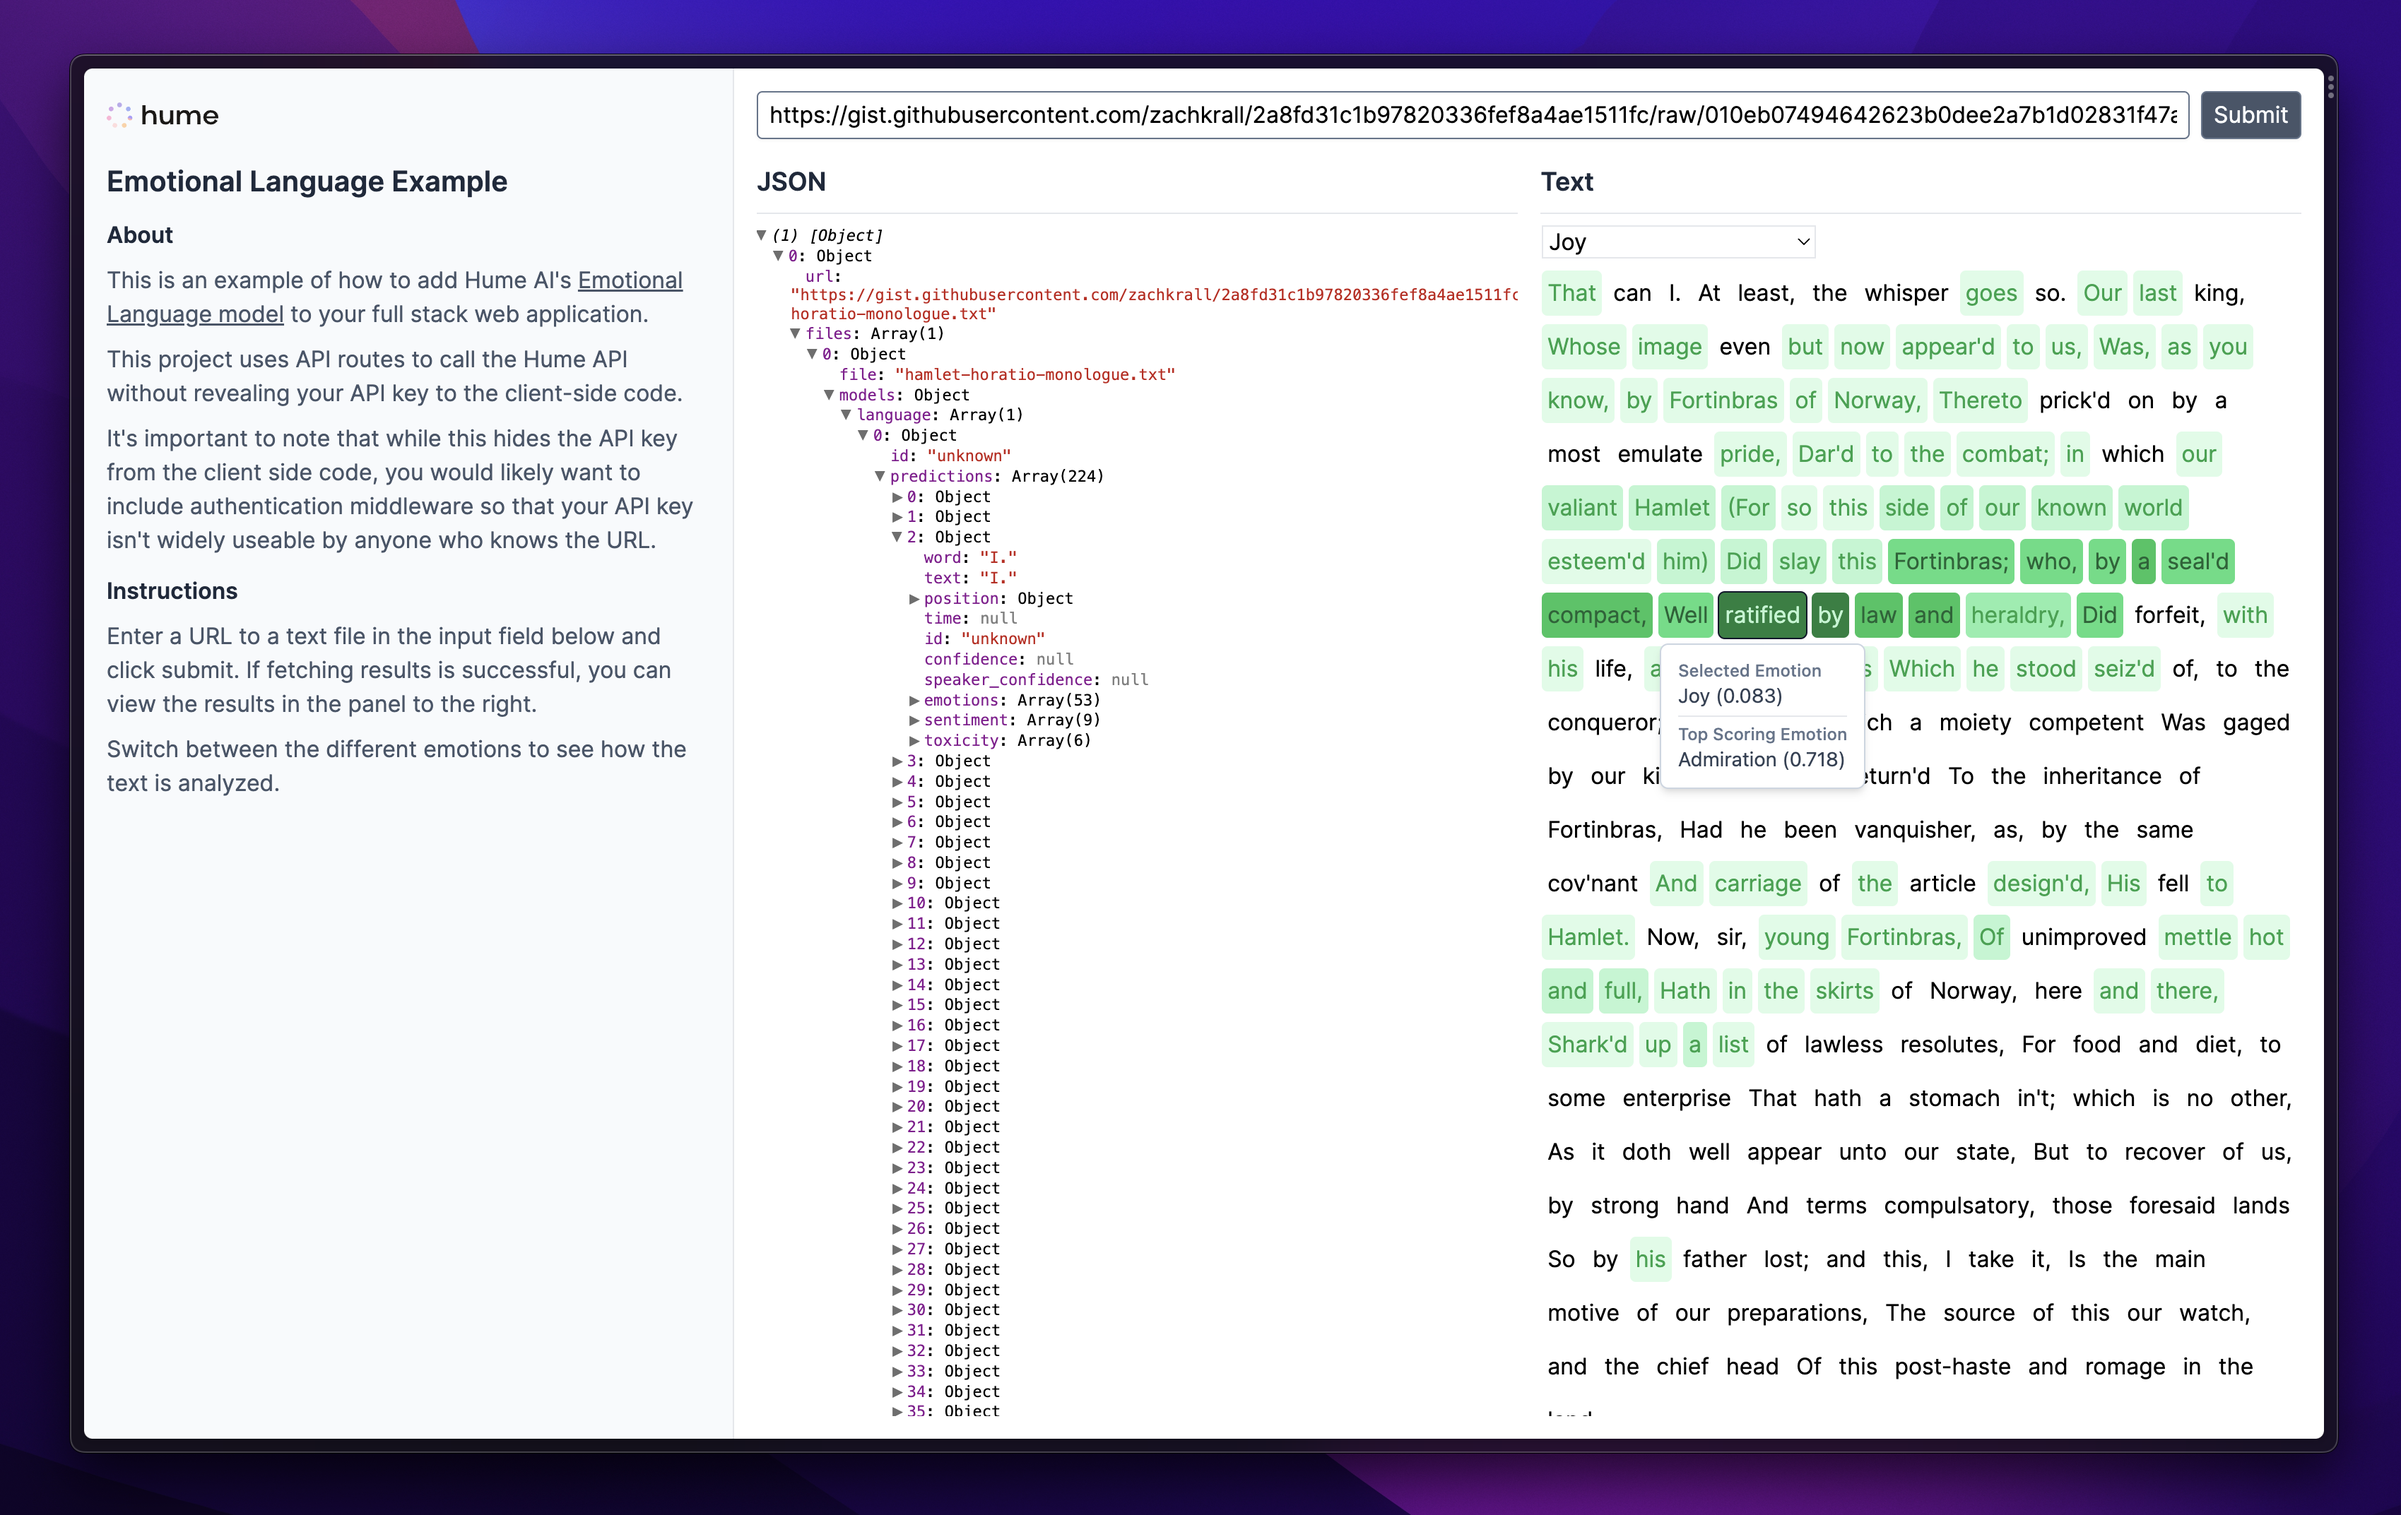
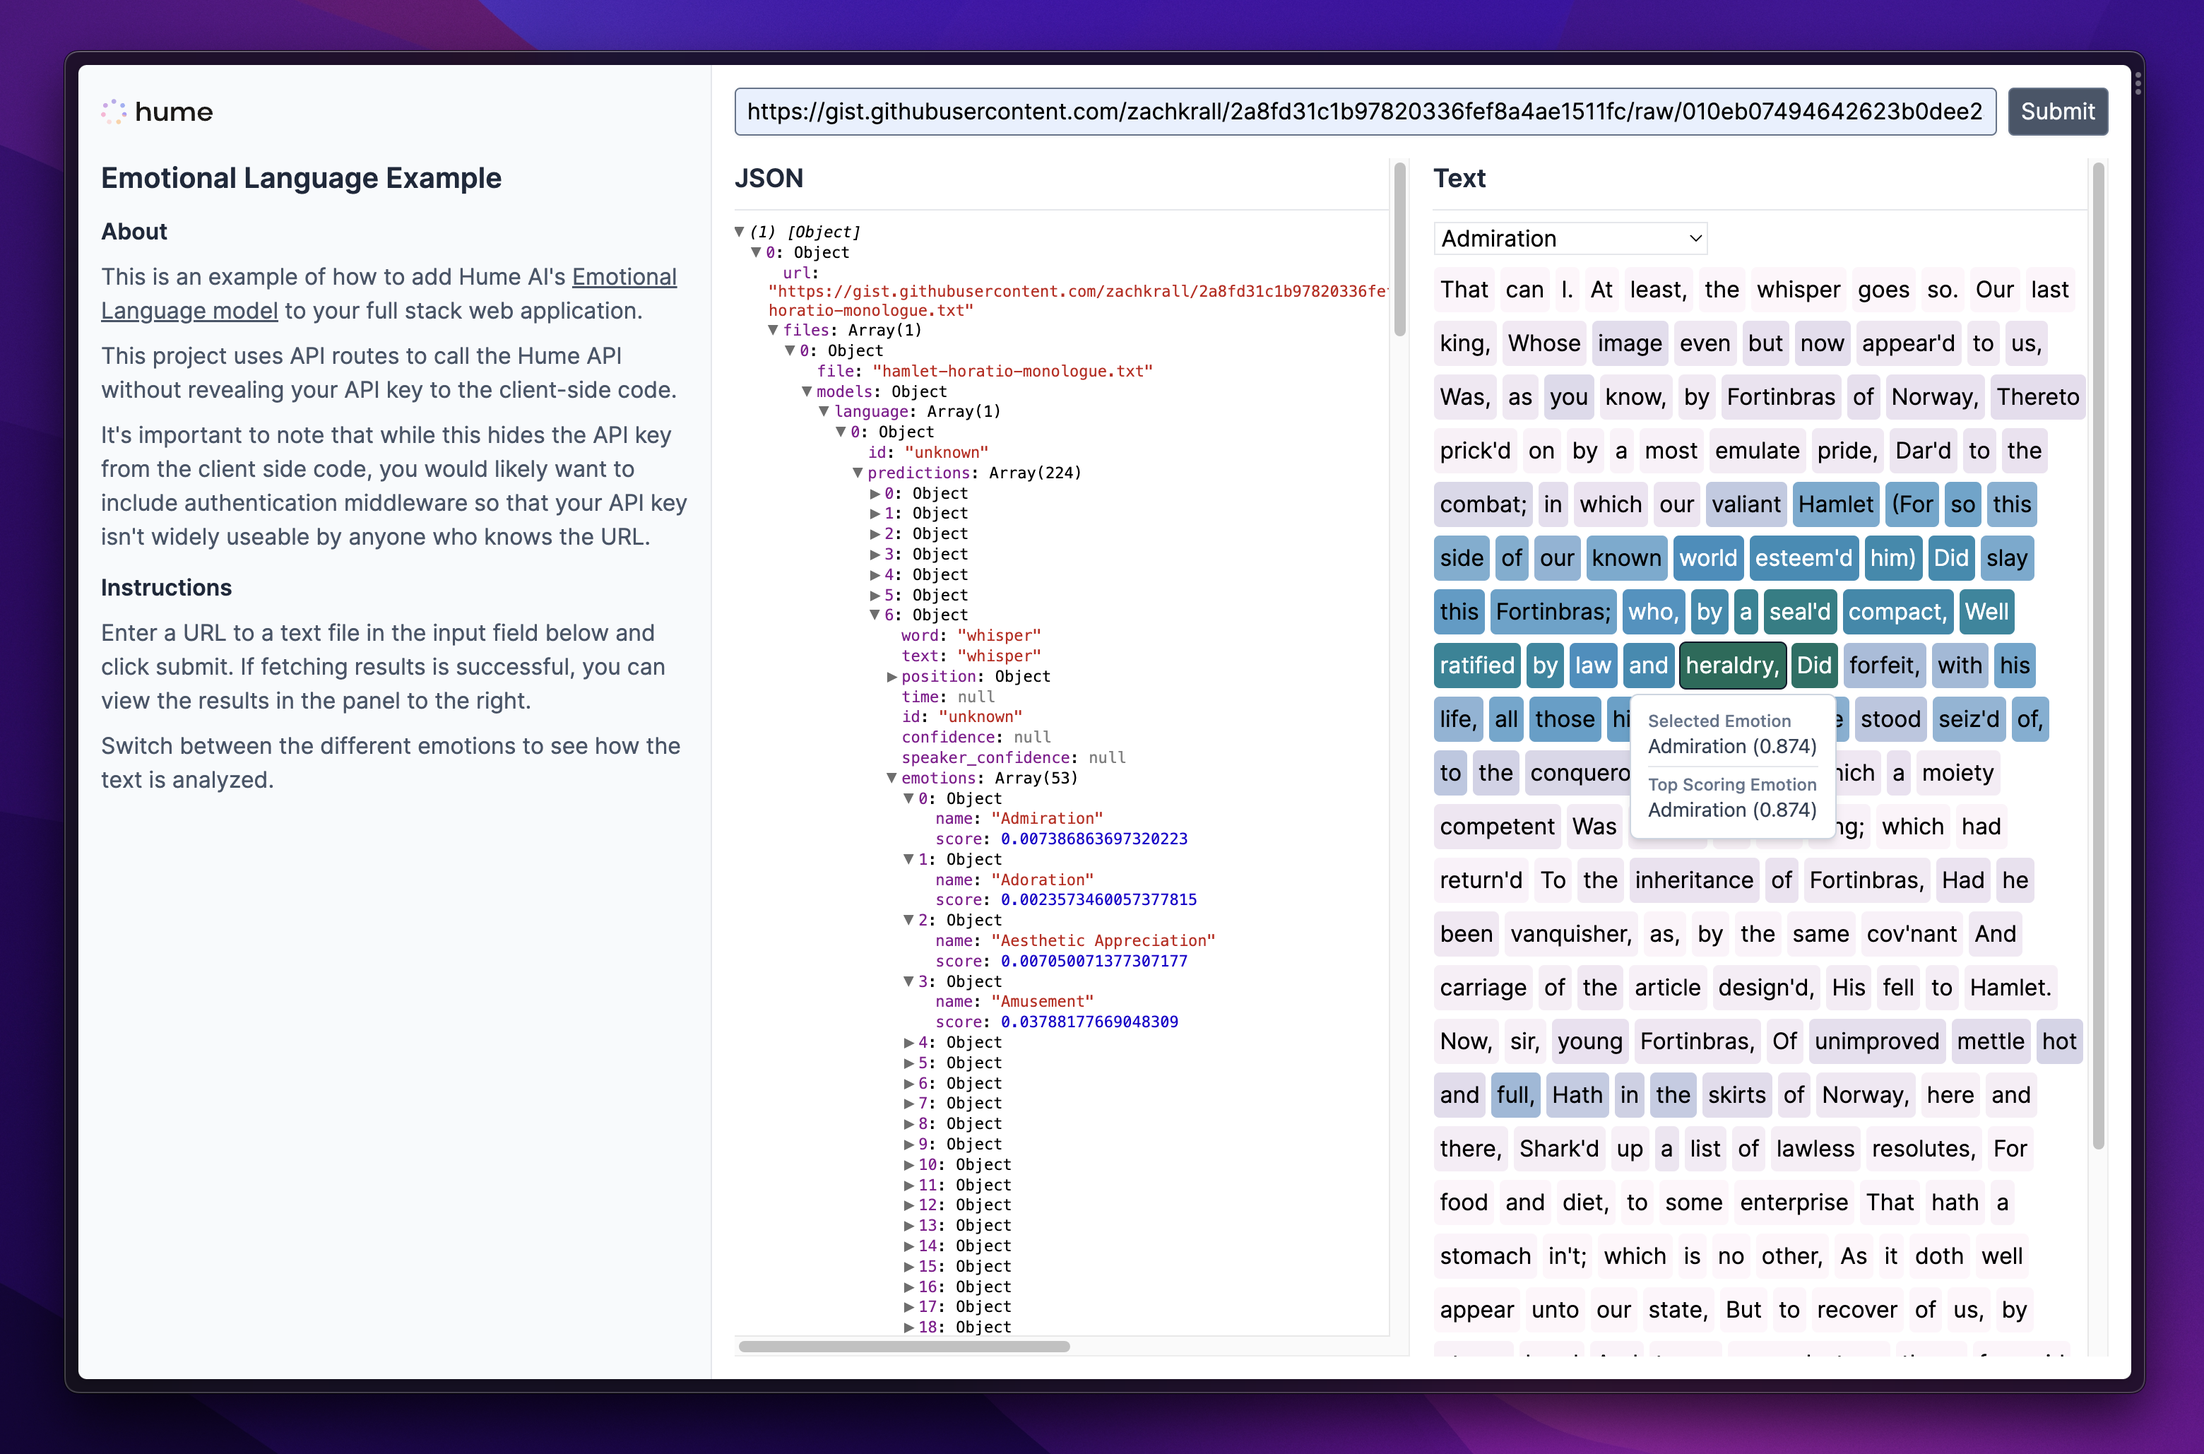
update color scale, update cover image

Changed region(s): [[0.0311, 0.0311, 1.0, 1.0], [0.1554, 0.0, 0.2487, 0.0622]]

diff --git a/typescript-next-api-language/src/components/TextRender.tsx b/typescript-next-api-language/src/components/TextRender.tsx
@@ -1,8 +1,13 @@
 import { TooltipTrigger } from '@radix-ui/react-tooltip';
+import chroma from 'chroma-js';
 import { FC, useState } from 'react';
-import { match } from 'ts-pattern';
 import { z } from 'zod';
 import { Tooltip, TooltipContent, TooltipPortal } from './Tooltip';
+
+const scale = chroma.scale('PuBuGn').domain([0, 1]);
+
+const getTextColor = (c: chroma.Color) =>
+  c.get('lab.l') < 60 ? chroma('white') : chroma('black');
 
 const ResultsSchema = z.array(
   z.object({
@@ -42,7 +47,11 @@ export const TextRender: FC<{ data: unknown }> = ({ data }) => {
   const parsedData = ResultsSchema.safeParse(data);
 
   if (!parsedData.success) {
-    return null;
+    return (
+      <div>
+        <div className={'pb-2 px-px'}>Unable to render text</div>
+      </div>
+    );
   }
 
   const predictions =
@@ -70,44 +79,8 @@ export const TextRender: FC<{ data: unknown }> = ({ data }) => {
       </div>
       <div className={'flex flex-wrap gap-y-1.5 gap-x-1 px-px'}>
         {predictions.map((entry, index) => {
-          const Emotion =
+          const emotionScore =
             entry.emotions.find((e) => e.name === selectedEmotion)?.score ?? 0;
-
-          const classNames = [
-            'rounded px-1 py-1 block cursor-default hover:ring-1 hover:ring-slate-900 rounded',
-            match(Emotion)
-              .when(
-                (n) => n > 0.07,
-                () => 'bg-green-700 text-green-200'
-              )
-              .when(
-                (n) => n > 0.06,
-                () => 'bg-green-600 text-green-200'
-              )
-              .when(
-                (n) => n > 0.05,
-                () => 'bg-green-500 text-green-800'
-              )
-              .when(
-                (n) => n > 0.04,
-                () => 'bg-green-400 text-green-800'
-              )
-              .when(
-                (n) => n > 0.03,
-                () => 'bg-green-300 text-green-600'
-              )
-              .when(
-                (n) => n > 0.02,
-                () => 'bg-green-200 text-green-600'
-              )
-              .when(
-                (n) => n > 0.01,
-                () => 'bg-green-100 text-green-600'
-              )
-              .otherwise(() => ''),
-          ]
-            .filter(Boolean)
-            .join(' ');
 
           const topEmotion = entry.emotions.reduce(
             (prev, current) => {
@@ -122,10 +95,23 @@ export const TextRender: FC<{ data: unknown }> = ({ data }) => {
             }
           );
 
+          const bgColor = scale(emotionScore);
+          const textColor = getTextColor(bgColor);
+
           return (
             <Tooltip key={entry.word + index} delayDuration={0}>
               <TooltipTrigger asChild>
-                <span className={classNames}>{entry.word}</span>
+                <span
+                  className={
+                    'rounded px-1 py-1 block cursor-default hover:ring-1 hover:ring-slate-900'
+                  }
+                  style={{
+                    backgroundColor: bgColor.hex(),
+                    color: textColor.hex(),
+                  }}
+                >
+                  {entry.word}
+                </span>
               </TooltipTrigger>
               <TooltipPortal>
                 <TooltipContent side={'bottom'}>
@@ -136,7 +122,7 @@ export const TextRender: FC<{ data: unknown }> = ({ data }) => {
                       >
                         Selected Emotion
                       </strong>
-                      {selectedEmotion} ({Emotion.toFixed(3)})
+                      {selectedEmotion} ({emotionScore.toFixed(3)})
                     </p>
                     <p>
                       <strong
